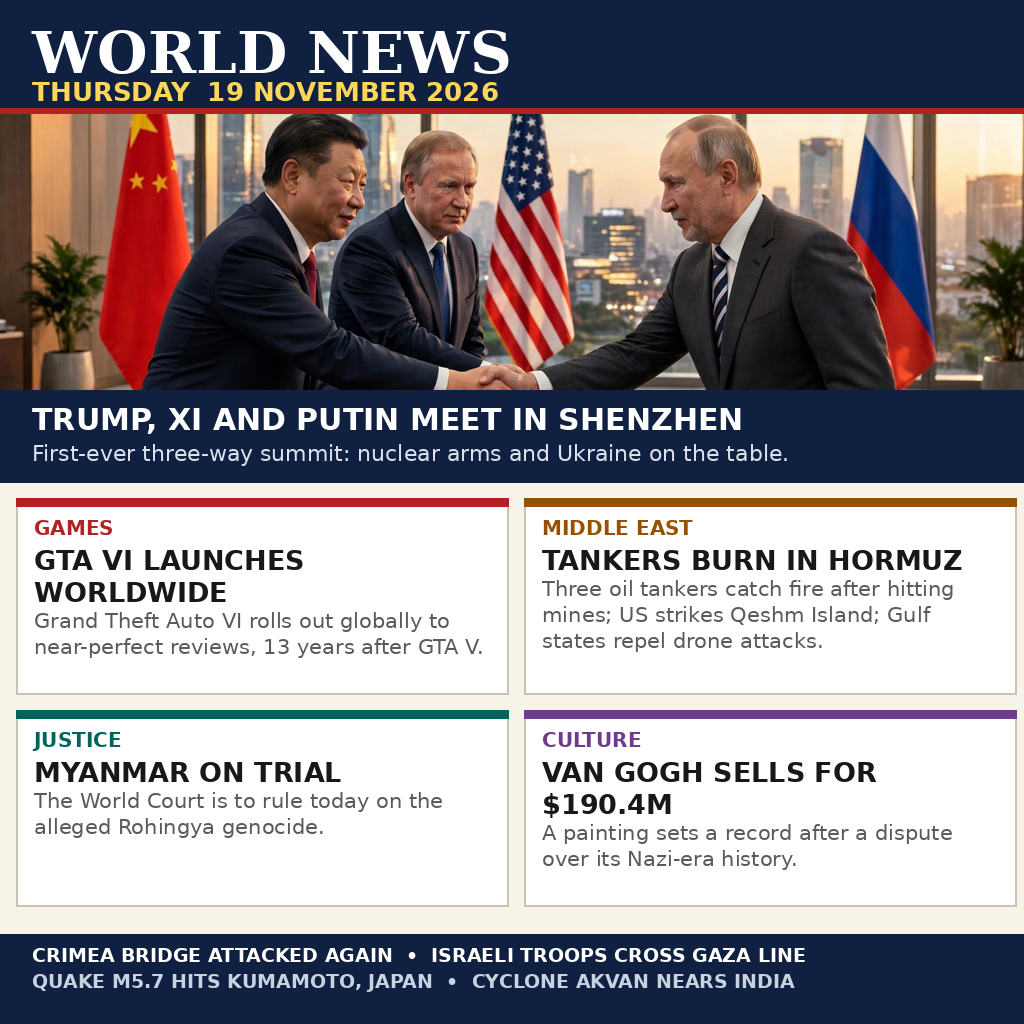
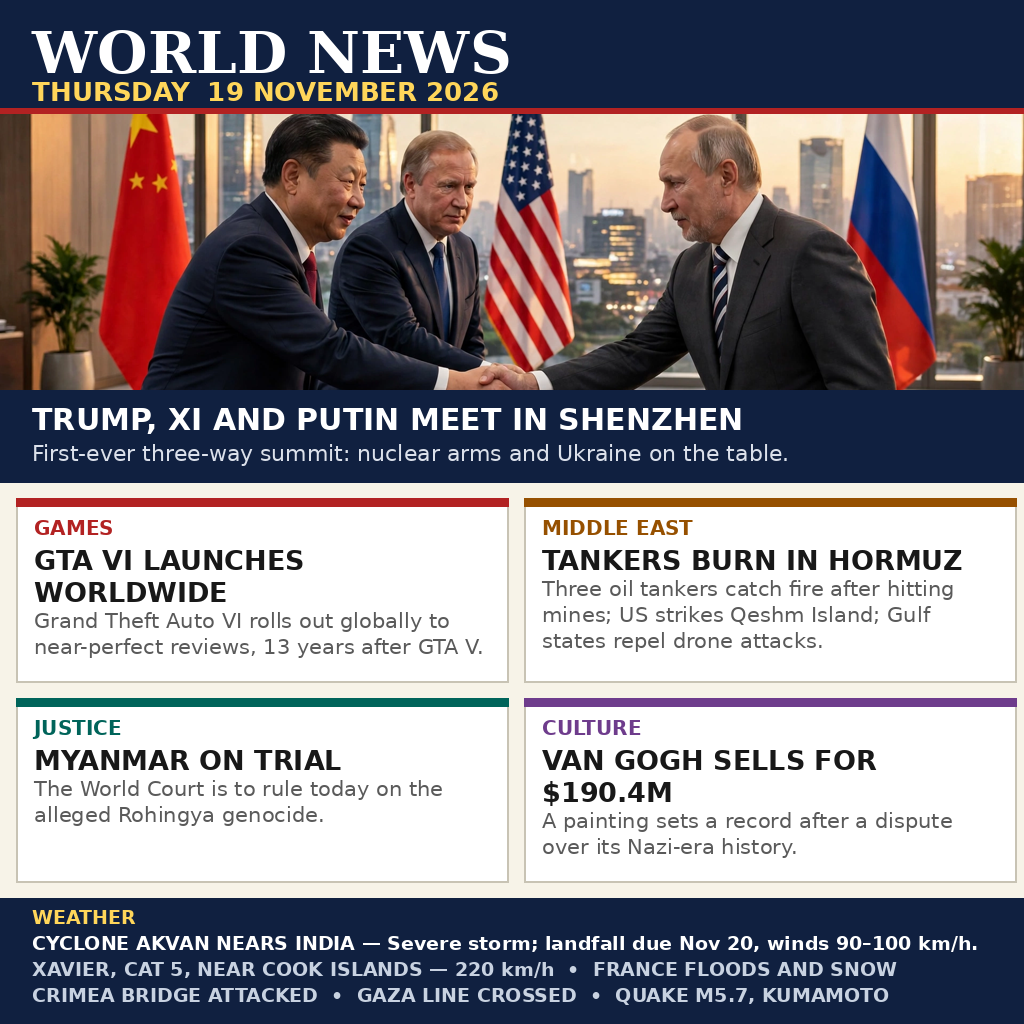
Add weather strip to 19 November poster

Changed region(s): [[0.0, 0.6562, 1.0, 1.0]]

diff --git a/README.md b/README.md
@@ -4,7 +4,7 @@
 [![rank](https://make.fun/badge/news-image-20261119/LYChee66/news-image-20261119/rank.svg)](https://make.fun/bounty/news-image-20261119/leaderboard?utm_source=github&utm_medium=readme&utm_campaign=news-image-20261119)
 [![reward](https://make.fun/badge/news-image-20261119/LYChee66/news-image-20261119/reward.svg)](https://make.fun/bounty/news-image-20261119?utm_source=github&utm_medium=readme&utm_campaign=news-image-20261119)
 
-One image summing up the world's news of Thursday 19 November 2026: the first-ever Trump–Xi–Putin summit in Shenzhen, GTA VI launching worldwide, oil tankers burning in the Strait of Hormuz, the World Court ruling on Myanmar, and a Van Gogh selling for $190.4M — plus the day's other headlines in a footer strip.
+One image summing up the world's news of Thursday 19 November 2026: the first-ever Trump–Xi–Putin summit in Shenzhen, GTA VI launching worldwide, oil tankers burning in the Strait of Hormuz, the World Court ruling on Myanmar, and a Van Gogh selling for $190.4M — plus a weather strip (Cyclone Akvan nearing India, Category 5 Cyclone Xavier near the Cook Islands, floods and snow in France) and the day's other headlines.
 
 ## Run it
 
